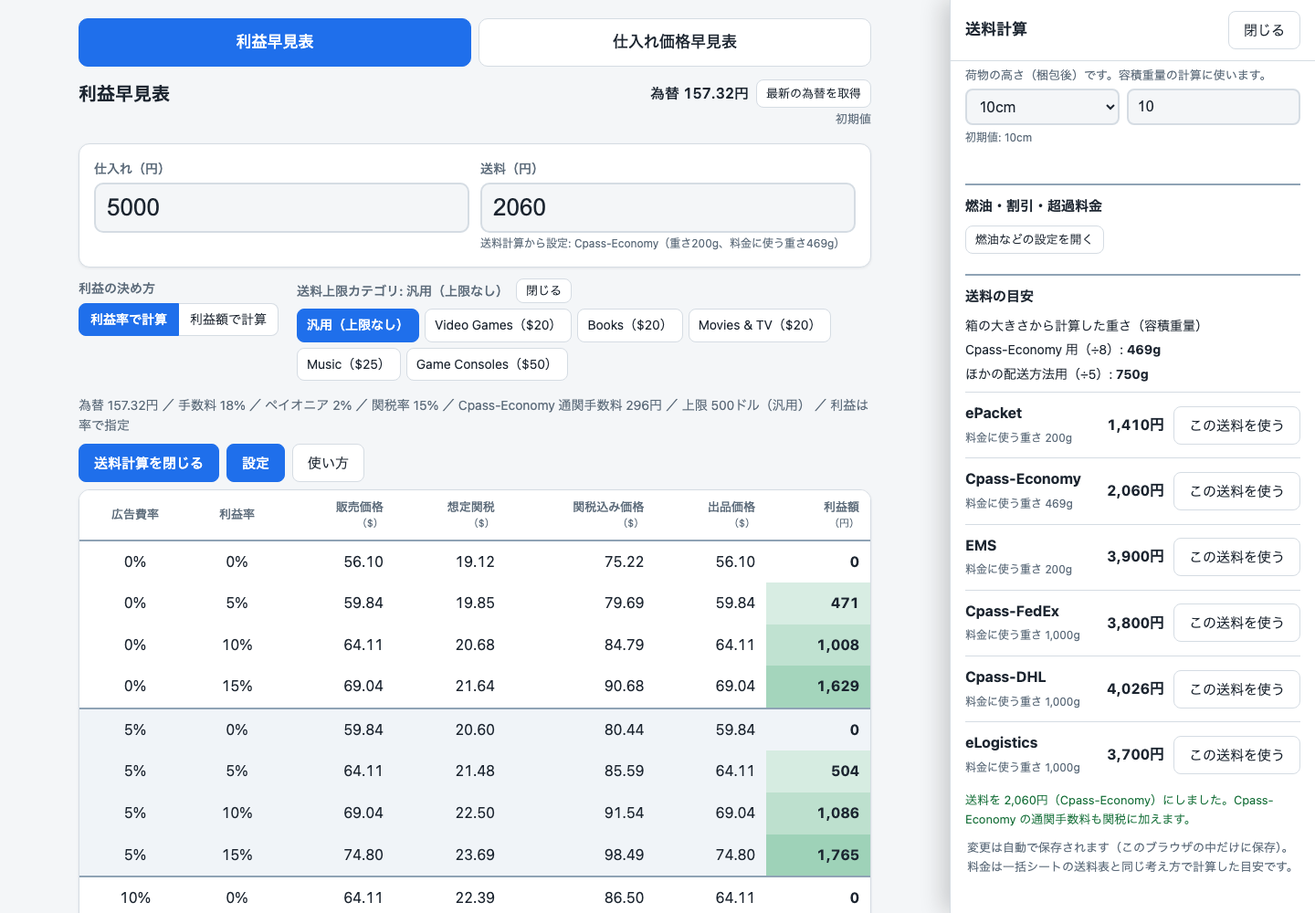
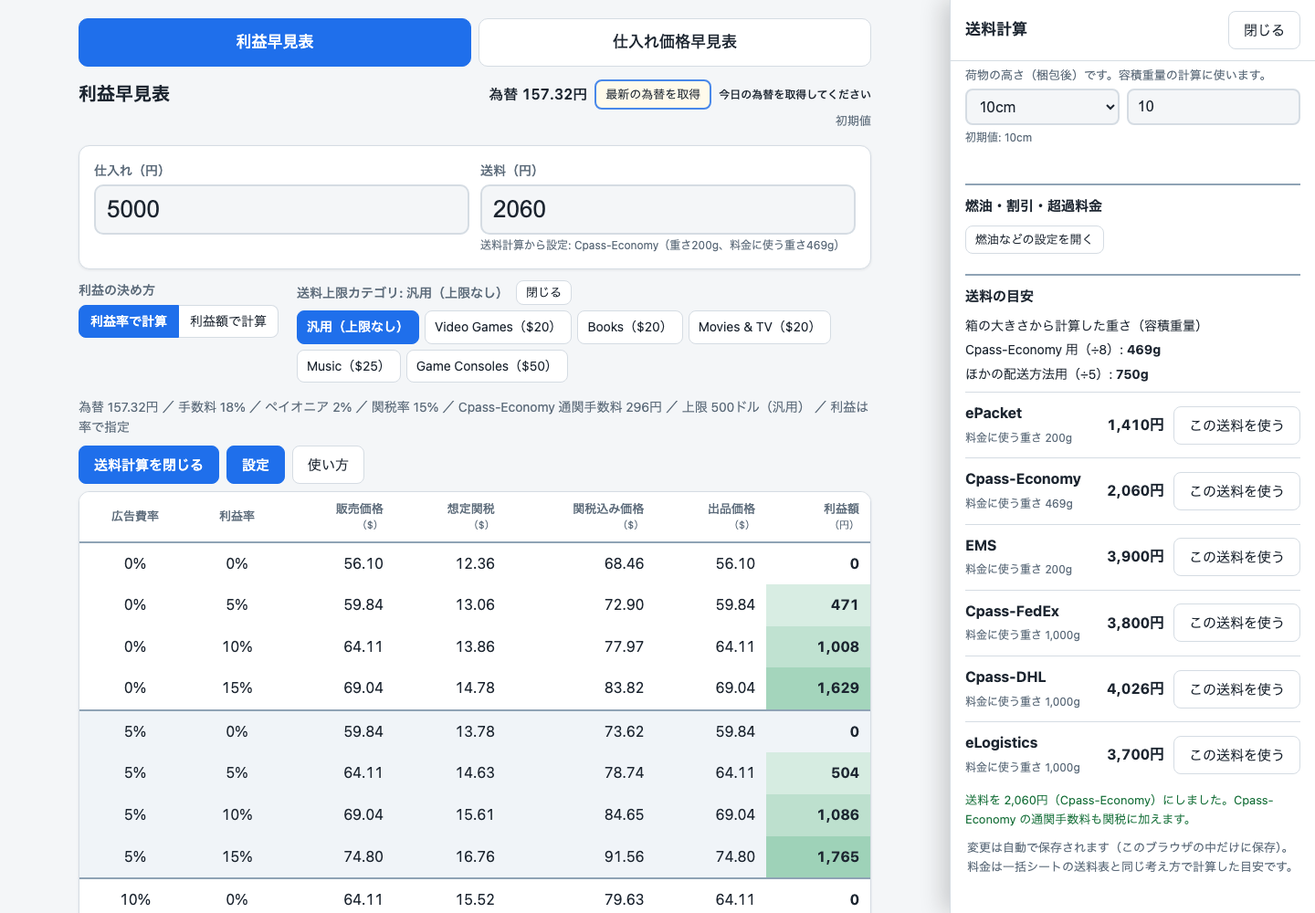
feat: 初期値を変更（上乗せ係数1・VAT0%・EU送料差額0円）、為替ボタンを未取得時に点滅、ガイドと画面写真を更新

diff --git a/guide.html b/guide.html
@@ -241,7 +241,7 @@ figcaption { font-size: 0.88rem; color: var(--muted); margin-top: 8px; line-heig
 <p>まず、画面の上にあるタブで「利益早見表」を選びます。はじめて開いたときは、こちらが選ばれています。前回選んだ表は、次に開いたときも覚えています。</p>
 
 <figure>
-  <img src="images/01-profit-table.png" alt="利益早見表の初期画面。画面の右上に「為替 157.32円」と「最新の為替を取得」ボタン、その下に「初期値」の表示が出ている。仕入れ5000円、送料1500円を入れた状態で、広告費率0%から15%、利益率0%から15%の組み合わせが16行の表で並んでいる。いちばん下に「為替レートの提供: Rates By Exchange Rate API」の行がある" width="1100" height="1500">
+  <img src="images/01-profit-table.png" alt="利益早見表の初期画面。画面の右上に「為替 157.32円」と「最新の為替を取得」ボタン（目立つ枠つき）とその横の「今日の為替を取得してください」の文字、その下に「初期値」の表示が出ている。仕入れ5000円、送料1500円を入れた状態で、広告費率0%から15%、利益率0%から15%の組み合わせが16行の表で並んでいる。いちばん下に「為替レートの提供: Rates By Exchange Rate API」の行がある" width="1100" height="1500">
   <figcaption>利益早見表の画面です。仕入れ 5000円、送料 1500円を入れた状態です。右上に為替の表示、いちばん下に為替レートの提供元の行があります。</figcaption>
 </figure>
 
@@ -263,10 +263,11 @@ figcaption { font-size: 0.88rem; color: var(--muted); margin-top: 8px; line-heig
     <tbody>
       <tr><td>初期値</td><td>ツールに入っている初期の為替を使っています。</td></tr>
       <tr><td>9/30 08:38 に取得</td><td>ボタンで取得した為替です。日時は取得した時刻で、お使いの端末の時刻で出ます（日時は例です）。</td></tr>
-      <tr><td>手入力の値</td><td>「設定」の為替の欄に、自分で数字を入れた値です。</td></tr>
+      <tr><td>手入力の値（9/30 08:38）</td><td>「設定」の為替の欄に、自分で数字を入れた値です。かっこの中は、入れた日時です（日時は例です）。</td></tr>
     </tbody>
   </table>
 </div>
+<p>今日の為替をまだ取得していない間は、「最新の為替を取得」ボタンの背景と枠がゆっくり点滅し、横に「今日の為替を取得してください」と出ます。ボタンを押して取得に成功すると、点滅は止まります。その日のうちに「設定」の為替の欄へ自分で数字を入れたときも止まります。次の日と、「初期値に戻す」を押したあとは、また点滅します。端末の設定で動きを減らしている場合は、点滅の代わりに、枠が目立つ状態のままになります。「設定」の中のボタンは点滅しません。</p>
 <p>取得中は「取得中です…」と出て、うまくいかなかったときは、同じ場所にメッセージが出ます（第9章）。為替のデータは、画面のいちばん下に書いてある提供元から取得します（第8章）。</p>
 
 <h3>表の列の見方</h3>
@@ -309,7 +310,7 @@ figcaption { font-size: 0.88rem; color: var(--muted); margin-top: 8px; line-heig
 <p>並べる値そのものは、「設定」で変えます（第7章で説明します）。</p>
 
 <figure>
-  <img src="images/02-profit-amount.png" alt="「利益額で計算」を選んだ画面。画面の右上に「為替 157.32円」と「最新の為替を取得」ボタン、その下に「初期値」の表示が出ている。利益額の列が1,000円、2,000円、3,000円、5,000円になり、利益率の列には10.7%などの計算結果が出ている" width="1100" height="1500" loading="lazy">
+  <img src="images/02-profit-amount.png" alt="「利益額で計算」を選んだ画面。画面の右上に「為替 157.32円」と「最新の為替を取得」ボタン（目立つ枠つき）とその横の「今日の為替を取得してください」の文字、その下に「初期値」の表示が出ている。利益額の列が1,000円、2,000円、3,000円、5,000円になり、利益率の列には10.7%などの計算結果が出ている" width="1100" height="1500" loading="lazy">
   <figcaption>「利益額で計算」を選んだ画面です。利益額が 1,000円・2,000円・3,000円・5,000円の行になり、利益率の列に率が出ています。</figcaption>
 </figure>
 
@@ -342,14 +343,14 @@ figcaption { font-size: 0.88rem; color: var(--muted); margin-top: 8px; line-heig
 </div>
 <p>下の写真で確認します。条件は、Video Games（$20）、仕入れ 20000円、送料 1500円です。広告費率10%、利益率10%の行を見てください。</p>
 <ul>
-  <li>販売価格は 227.78ドル、想定関税は 56.64ドル、関税込み価格は 284.42ドルです。</li>
-  <li>想定関税（56.64ドル）は上限（20ドル）を超えているので、請求する関税は 20.00ドルまでになります。</li>
-  <li>出品価格は 264.42ドルです。264.42 ＋ 20.00 ＝ 284.42 で、関税込み価格と合います。</li>
-  <li>出品価格（264.42ドル）は、販売価格（227.78ドル）と違う金額です。</li>
+  <li>販売価格は 227.78ドル、想定関税は 48.45ドル、関税込み価格は 276.23ドルです。</li>
+  <li>想定関税（48.45ドル）は上限（20ドル）を超えているので、請求する関税は 20.00ドルまでになります。</li>
+  <li>出品価格は 256.23ドルです。256.23 ＋ 20.00 ＝ 276.23 で、関税込み価格と合います。</li>
+  <li>出品価格（256.23ドル）は、販売価格（227.78ドル）と違う金額です。</li>
 </ul>
 
 <figure>
-  <img src="images/03-category-adjusted.png" alt="Video Games（$20）を選び、仕入れ20000円、送料1500円にした画面。画面の右上に「為替 157.32円」と「最新の為替を取得」ボタン、その下に「初期値」の表示が出ている。想定関税の下に赤い「関税の請求は $20.00 まで」、出品価格の下に赤い「調整あり」が出ている。広告費率10%、利益率10%の行は、販売価格227.78、想定関税56.64、関税込み価格284.42、出品価格264.42" width="1100" height="1500" loading="lazy">
+  <img src="images/03-category-adjusted.png" alt="Video Games（$20）を選び、仕入れ20000円、送料1500円にした画面。画面の右上に「為替 157.32円」と「最新の為替を取得」ボタン（目立つ枠つき）とその横の「今日の為替を取得してください」の文字、その下に「初期値」の表示が出ている。想定関税の下に赤い「関税の請求は $20.00 まで」、出品価格の下に赤い「調整あり」が出ている。広告費率10%、利益率10%の行は、販売価格227.78、想定関税48.45、関税込み価格276.23、出品価格256.23" width="1100" height="1500" loading="lazy">
   <figcaption>Video Games（$20）を選び、仕入れを 20000円にした例です。赤い表示の行が「調整あり」です。利益率0%の行の利益額が 1 や -1 になっているのは、丸めによるものです。</figcaption>
 </figure>
 
@@ -368,8 +369,8 @@ figcaption { font-size: 0.88rem; color: var(--muted); margin-top: 8px; line-heig
 <p>カテゴリの欄は、右上の「閉じる」ボタンで小さくできます。閉じると、ボタンが「開く」に変わります。閉じている間も、選んだカテゴリはそのまま計算に使われます。</p>
 
 <figure>
-  <img src="images/11-category-closed.png" alt="送料上限カテゴリの欄を閉じた画面。画面の右上に「為替 157.32円」と「最新の為替を取得」ボタン、その下に「初期値」の表示が出ている。「送料上限カテゴリ: Video Games（$20）」の右に「開く」ボタンがあり、6つのカテゴリボタンは隠れている" width="1100" height="1500" loading="lazy">
-  <figcaption>カテゴリの欄を閉じた状態です（仕入れ 5000円、カテゴリは Video Games）。「開く」を押すと、6つのボタンがまた出ます。</figcaption>
+  <img src="images/11-category-closed.png" alt="送料上限カテゴリの欄を閉じた画面。画面の右上に「為替 157.32円」と「最新の為替を取得」ボタン（目立つ枠つき）とその横の「今日の為替を取得してください」の文字、その下に「初期値」の表示が出ている。「送料上限カテゴリ: Video Games（$20）」の右に「開く」ボタンがあり、6つのカテゴリボタンは隠れている。想定関税は最大でも18.89で、赤い表示の行はない" width="1100" height="1500" loading="lazy">
+  <figcaption>カテゴリの欄を閉じた状態です（仕入れ 5000円、カテゴリは Video Games）。この条件では、想定関税がどの行も 20ドルに届かず（最大 18.89ドル）、赤い表示の行はありません。「開く」を押すと、6つのボタンがまた出ます。</figcaption>
 </figure>
 
 <h2 id="s5">5. 送料計算の使い方</h2>
@@ -377,7 +378,7 @@ figcaption { font-size: 0.88rem; color: var(--muted); margin-top: 8px; line-heig
 <p>パネルは、パネル内の「閉じる」ボタン、または「送料計算を閉じる」ボタンで閉じます。キーボードのEscキーでも閉じられます。「設定」のパネルも同じです。</p>
 
 <figure>
-  <img src="images/04-shipping-calc.png" alt="送料計算のパネルを開いた画面。左側の主画面の右上には「為替 157.32円」と「最新の為替を取得」ボタンがある。パネルには重さ200g、長さ25cm、幅15cm、高さ10cmが入っている。「燃油・割引・超過料金」の見出しの下に「燃油などの設定を開く」ボタンがあり、その下の「送料の目安」に、容積重量としてCpass-Economy用469g、ほかの配送方法用750gが出ている。一覧の先頭にePacketが見える" width="1440" height="1000" loading="lazy">
+  <img src="images/04-shipping-calc.png" alt="送料計算のパネルを開いた画面。左側の主画面の右上には「為替 157.32円」と「最新の為替を取得」ボタン、「今日の為替を取得してください」の文字がある。パネルには重さ200g、長さ25cm、幅15cm、高さ10cmが入っている。「燃油・割引・超過料金」の見出しの下に「燃油などの設定を開く」ボタンがあり、その下の「送料の目安」に、容積重量としてCpass-Economy用469g、ほかの配送方法用750gが出ている。一覧の先頭にePacketが見える" width="1440" height="1000" loading="lazy">
   <figcaption>送料計算のパネルです。初期値は 重さ200g、長さ25cm、幅15cm、高さ10cm です。</figcaption>
 </figure>
 
@@ -407,7 +408,7 @@ figcaption { font-size: 0.88rem; color: var(--muted); margin-top: 8px; line-heig
 <p>使いたい配送方法の横の「この送料を使う」を押すと、その金額が「送料（円）」に入ります。入力欄の下には、どの方法・どの重さで決めたかが小さく出ます。</p>
 
 <figure>
-  <img src="images/05-shipping-applied.png" alt="Cpass-Economyの「この送料を使う」を押したあとの画面。左側の主画面の右上に為替の表示がある。送料欄が2060になり、その下に「送料計算から設定: Cpass-Economy（重さ200g、料金に使う重さ469g）」と出て、パネルに確認メッセージが緑色で出ている。一覧には、Cpass-FedEx、Cpass-DHL、eLogisticsの料金に使う重さが1,000gと出ている" width="1440" height="1000" loading="lazy">
+  <img src="images/05-shipping-applied.png" alt="Cpass-Economyの「この送料を使う」を押したあとの画面。左側の主画面の右上に為替の表示と「今日の為替を取得してください」の文字がある。送料欄が2060になり、その下に「送料計算から設定: Cpass-Economy（重さ200g、料金に使う重さ469g）」と出て、パネルに確認メッセージが緑色で出ている。一覧には、Cpass-FedEx、Cpass-DHL、eLogisticsの料金に使う重さが1,000gと出ている" width="1440" height="1000" loading="lazy">
   <figcaption>Cpass-Economy の「この送料を使う」を押したあとです。送料が 2060 になり、入力欄の下に説明が出ています。</figcaption>
 </figure>
 
@@ -454,11 +455,11 @@ figcaption { font-size: 0.88rem; color: var(--muted); margin-top: 8px; line-heig
 </ol>
 
 <figure>
-  <img src="images/06-purchase-table.png" alt="仕入れ価格早見表の画面。画面の右上に「為替 157.32円」と「最新の為替を取得」ボタン、その下に「初期値」の表示が出ている。「関税を含まない販売価格」を選び、販売価格100ドル、送料1500円を入れた状態。仕入れ価格の列に、11,085、10,298、9,512などが並んでいる" width="1100" height="1500" loading="lazy">
+  <img src="images/06-purchase-table.png" alt="仕入れ価格早見表の画面。画面の右上に「為替 157.32円」と「最新の為替を取得」ボタン（目立つ枠つき）とその横の「今日の為替を取得してください」の文字、その下に「初期値」の表示が出ている。「関税を含まない販売価格」を選び、販売価格100ドル、送料1500円を入れた状態。仕入れ価格の列に、11,085、10,298、9,512などが並んでいる" width="1100" height="1500" loading="lazy">
   <figcaption>「関税を含まない販売価格」に 100ドルを入れた例です。広告費率10%、利益率0%の行は 9,512円です。</figcaption>
 </figure>
 <figure>
-  <img src="images/07-purchase-table-incl.png" alt="画面の右上に「為替 157.32円」と「最新の為替を取得」ボタン、その下に「初期値」の表示が出ている。「関税込み価格」を選び、関税込み価格120ドル、送料1500円を入れた画面。仕入れ価格の列に10,477、9,728などが並び、販売価格は95.17ドルなどに逆算されている" width="1100" height="1500" loading="lazy">
+  <img src="images/07-purchase-table-incl.png" alt="画面の右上に「為替 157.32円」と「最新の為替を取得」ボタン（目立つ枠つき）とその横の「今日の為替を取得してください」の文字、その下に「初期値」の表示が出ている。「関税込み価格」を選び、関税込み価格120ドル、送料1500円を入れた画面。仕入れ価格の列に11,224、10,429などが並び、販売価格は101.11ドルなどに逆算されている" width="1100" height="1500" loading="lazy">
   <figcaption>「関税込み価格」に 120ドルを入れた例です。関税込み価格から、販売価格を逆算しています。</figcaption>
 </figure>
 
@@ -484,7 +485,7 @@ figcaption { font-size: 0.88rem; color: var(--muted); margin-top: 8px; line-heig
 <p>「利益率（%）」と「利益額（円）」のうち、いま表に使っている方には「いま使用中」の印が付きます。どちらで計算するかは、設定ではなく、画面の上のボタンで切り替えます。</p>
 
 <figure>
-  <img src="images/08-settings-top.png" alt="設定パネルの上の部分。左側の主画面の右上に為替の表示がある。広告費率と利益率の4つの枠に、それぞれ一覧と数字の欄があり、利益率の横に「いま使用中」の印が出ている" width="1440" height="1000" loading="lazy">
+  <img src="images/08-settings-top.png" alt="設定パネルの上の部分。左側の主画面の右上に為替の表示と「今日の為替を取得してください」の文字がある。広告費率と利益率の4つの枠に、それぞれ一覧と数字の欄があり、利益率の横に「いま使用中」の印が出ている" width="1440" height="1000" loading="lazy">
   <figcaption>設定パネルの上の部分です。広告費率・利益率・利益額の枠が並びます。</figcaption>
 </figure>
 
@@ -494,11 +495,11 @@ figcaption { font-size: 0.88rem; color: var(--muted); margin-top: 8px; line-heig
   <li>手数料率は、販売サイトに支払う手数料の割合です。</li>
   <li>ペイオニア手数料率は、海外から代金を受け取る際の受取サービスの手数料の割合です。</li>
   <li>為替は、「最新の為替を取得」ボタンを押すと、最新の値を取得して入れます。同じボタンは、主画面の右上にもあります。どちらを押しても同じ動きです。取得できなかったときは、メッセージが出て、いまの値のままになります（第9章）。</li>
-  <li>為替の欄の下には、状態（「初期値」「9/30 08:38 に取得」のような取得した時刻、「手入力の値」）が出ます。右上の表示と同じ内容です。</li>
+  <li>為替の欄の下には、状態（「初期値」「9/30 08:38 に取得」のような取得した時刻、「手入力の値（9/30 08:38）」）が出ます。右上の表示と同じ内容です。</li>
 </ul>
 
 <figure>
-  <img src="images/09-settings-rates.png" alt="設定パネルの中ほど。為替の欄と「最新の為替を取得」ボタン、その下の「初期値」の表示、「為替レートの提供: Rates By Exchange Rate API」の行、手数料率、ペイオニア手数料率、関税率、上乗せ係数、関税処理手数料率の欄が並んでいる" width="1440" height="1000" loading="lazy">
+  <img src="images/09-settings-rates.png" alt="設定パネルの中ほど。為替の欄と「最新の為替を取得」ボタン、その下の「初期値」の表示、「為替レートの提供: Rates By Exchange Rate API」の行、手数料率、ペイオニア手数料率、関税率、上乗せ係数（初期値の1）、関税処理手数料率の欄が並んでいる" width="1440" height="1000" loading="lazy">
   <figcaption>設定パネルの中ほどです。為替の欄の下に「最新の為替を取得」ボタンと、状態の表示（この写真では「初期値」）、為替レートの提供元の行があります。</figcaption>
 </figure>
 
@@ -509,10 +510,10 @@ figcaption { font-size: 0.88rem; color: var(--muted); margin-top: 8px; line-heig
     <thead><tr><th>項目</th><th>意味</th><th>ツールの初期値</th></tr></thead>
     <tbody>
       <tr><td>関税率（%）</td><td>輸入先の国で商品にかかる関税（輸入時の税金）の割合です。</td><td>15%</td></tr>
-      <tr><td>上乗せ係数（関税の安全係数）</td><td>関税を少し多めに見積もるための掛け率です（1.03 = 3%多め）。</td><td>1.03</td></tr>
+      <tr><td>上乗せ係数（関税の安全係数）</td><td>関税を少し多めに見積もるための掛け率です（1.03 = 3%多め）。</td><td>1</td></tr>
       <tr><td>関税処理手数料率（%）</td><td>関税の支払いにかかる事務手数料の割合です。</td><td>2.1%</td></tr>
-      <tr><td>VAT率（%）</td><td>欧州などでかかる付加価値税（消費税に近い税金）の割合です。</td><td>8%</td></tr>
-      <tr><td>EU送料差額（円）</td><td>円をドルに直して、想定関税に加える金額です。</td><td>1000円</td></tr>
+      <tr><td>VAT率（%）</td><td>欧州などでかかる付加価値税（消費税に近い税金）の割合です。</td><td>0%</td></tr>
+      <tr><td>EU送料差額（円）</td><td>円をドルに直して、想定関税に加える金額です。</td><td>0円</td></tr>
       <tr><td>MPF（ドル）</td><td>米国の通関でかかる手続き費用（ドル）です。</td><td>0ドル</td></tr>
       <tr><td>Cpass-Economy で送る</td><td>Cpass-Economy（配送サービスの1つ）で送るときにチェックします。下の通関手数料が想定関税に加わります。</td><td>使わない</td></tr>
       <tr><td>通関手数料（円）</td><td>Cpass-Economy 利用時にかかる通関の手数料です。「Cpass-Economy で送る」がオフの間は、灰色になって変えられません。</td><td>296円</td></tr>
@@ -540,7 +541,7 @@ figcaption { font-size: 0.88rem; color: var(--muted); margin-top: 8px; line-heig
 </div>
 
 <figure>
-  <img src="images/10-settings-bottom.png" alt="設定パネルの下の部分。左側の主画面の右上に為替の表示がある。Cpass-Economyの通関手数料、送料の上限の説明、調整のチェック、汎用のときの上限、いちばん下に「初期値に戻す」ボタンが見える" width="1440" height="1000" loading="lazy">
+  <img src="images/10-settings-bottom.png" alt="設定パネルの下の部分。左側の主画面の右上に為替の表示と「今日の為替を取得してください」の文字がある。Cpass-Economyの通関手数料、送料の上限の説明、調整のチェック、汎用のときの上限、いちばん下に「初期値に戻す」ボタンが見える" width="1440" height="1000" loading="lazy">
   <figcaption>設定パネルの下の部分です。いちばん下に「初期値に戻す」ボタンがあります。</figcaption>
 </figure>
 

diff --git a/test-calc.js b/test-calc.js
@@ -16,7 +16,7 @@ var mr = html.match(/\/\/ REV-START([\s\S]*?)\/\/ REV-END/);
 if (!mr) { console.log('FAIL: REV block not found'); process.exit(1); }
 var mfx = html.match(/\/\/ FX-START([\s\S]*?)\/\/ FX-END/);
 if (!mfx) { console.log('FAIL: FX block not found'); process.exit(1); }
-var api = new Function(m[1] + mb[1] + mc[1] + ms[1] + mf[1] + mr[1] + mfx[1] + '; return { calcRow: calcRow, calcRowAmount: calcRowAmount, parseNum: parseNum, evalGroup: evalGroup, effectiveThreshold: effectiveThreshold, adjustExampleText: adjustExampleText, CAP_CATEGORIES: CAP_CATEGORIES, chargedTariffUSD: chargedTariffUSD, formatYen: formatYen, formatUsd: formatUsd, MAX_INPUT: MAX_INPUT, shipCost: shipCost, shipBandLookup: shipBandLookup, shipVolWeight: shipVolWeight, shipEpacket: shipEpacket, SHIP_BANDS: SHIP_BANDS, SHIP_METHODS: SHIP_METHODS, SHIP_LIMITS: SHIP_LIMITS, validateShipInputs: validateShipInputs, validateFuelSection: validateFuelSection, shipAvailability: shipAvailability, loadStored: loadStored, pickMatch: pickMatch, SHDEFS: SHDEFS, SHIP_WEIGHT_MAX: SHIP_WEIGHT_MAX, calcRev: calcRev, formatPercent: formatPercent, legendVisible: legendVisible, resetScope: resetScope, tariffInputs: tariffInputs, tariffFor: tariffFor, formatFxTime: formatFxTime, fxStatusText: fxStatusText, validateRevInputs: validateRevInputs, revSummaryText: revSummaryText };')();
+var api = new Function(m[1] + mb[1] + mc[1] + ms[1] + mf[1] + mr[1] + mfx[1] + '; return { calcRow: calcRow, calcRowAmount: calcRowAmount, parseNum: parseNum, evalGroup: evalGroup, effectiveThreshold: effectiveThreshold, adjustExampleText: adjustExampleText, CAP_CATEGORIES: CAP_CATEGORIES, chargedTariffUSD: chargedTariffUSD, formatYen: formatYen, formatUsd: formatUsd, MAX_INPUT: MAX_INPUT, shipCost: shipCost, shipBandLookup: shipBandLookup, shipVolWeight: shipVolWeight, shipEpacket: shipEpacket, SHIP_BANDS: SHIP_BANDS, SHIP_METHODS: SHIP_METHODS, SHIP_LIMITS: SHIP_LIMITS, validateShipInputs: validateShipInputs, validateFuelSection: validateFuelSection, shipAvailability: shipAvailability, loadStored: loadStored, pickMatch: pickMatch, SHDEFS: SHDEFS, SHIP_WEIGHT_MAX: SHIP_WEIGHT_MAX, calcRev: calcRev, formatPercent: formatPercent, legendVisible: legendVisible, resetScope: resetScope, tariffInputs: tariffInputs, tariffFor: tariffFor, formatFxTime: formatFxTime, fxShouldBlink: fxShouldBlink, fxStatusText: fxStatusText, validateRevInputs: validateRevInputs, revSummaryText: revSummaryText };')();
 var calcRow = api.calcRow, calcRowAmount = api.calcRowAmount, parseNum = api.parseNum, evalGroup = api.evalGroup;
 var effectiveThreshold = api.effectiveThreshold;
 
@@ -202,9 +202,9 @@ var S20 = withS({ adjustThresholdUSD: 20 });
 
 // ===== 追加テスト（今回） =====
 // 14) 部分B: 調整の見える化
-// 注意: 依頼の数値（関税33.84）は、初期設定（上乗せ係数1.03・EU送料差額1000円）では再現せず、上乗せ係数1・EU送料差額0円のときに再現する（初期設定だと関税41.20）
+// 注意: 依頼の数値（関税33.84）は、旧初期値（上乗せ係数1.03・VAT率8%・EU送料差額1000円）では再現せず、上乗せ係数1・EU送料差額0円（VAT率8%のまま）のときに再現する（旧初期値だと関税41.20）。この2つのテストは設定を明示して作っているので、初期値の変更の影響を受けない
 var PB = { feeRate: 0.20, adjustThresholdUSD: 20, safetyFactor: 1, euShippingDiffYen: 0 };
-check('part B (with initial settings the tariff is 41.20, not 33.84; recorded for the report)', calcRow(withS({ feeRate: 0.20, adjustThresholdUSD: 20 }), 20000, 1500, 0, 0).tariffUSD === 41.2, '');
+check('part B (with the OLD initial values 1.03 / VAT 8% / EU 1000 yen, given explicitly, the tariff is 41.20, not 33.84; recorded for the report)', calcRow(withS({ feeRate: 0.20, adjustThresholdUSD: 20 }), 20000, 1500, 0, 0).tariffUSD === 41.2, '');
 check('part B: values at cost 20000 / ship 1500 / fee 20% / cap 20 (safety factor 1, EU diff 0)',
   (function () {
     var rb2 = calcRow(withS(PB), 20000, 1500, 0, 0);
@@ -543,7 +543,7 @@ var T0 = Date.UTC(2026, 8, 29, 18, 20);   // 日本時間 2026-09-30 03:20
 check('formatFxTime: 9/30 03:20 in Japan time', api.formatFxTime(T0, 540) === '9/30 03:20', api.formatFxTime(T0, 540));
 check('formatFxTime: no zero padding for month/day, zero padding for hour/minute', api.formatFxTime(Date.UTC(2026, 0, 4, 22, 5), 540) === '1/5 07:05' && api.formatFxTime(Date.UTC(2026, 11, 31, 14, 59), 540) === '12/31 23:59' && api.formatFxTime(T0, 0) === '9/29 18:20', '');
 check('formatFxTime: default uses the local time zone', (function () { var d = new Date(T0); return api.formatFxTime(T0) === (d.getMonth() + 1) + '/' + d.getDate() + ' ' + (d.getHours() < 10 ? '0' : '') + d.getHours() + ':' + (d.getMinutes() < 10 ? '0' : '') + d.getMinutes(); })(), api.formatFxTime(T0));
-check('fxStatusText: default / manual / fetched', api.fxStatusText('default', '') === '初期値' && api.fxStatusText('manual', String(T0)) === '手入力の値' && api.fxStatusText('fetched', String(T0), 540) === '9/30 03:20 に取得', api.fxStatusText('fetched', String(T0), 540));
+check('fxStatusText: default / manual / fetched', api.fxStatusText('default', '') === '初期値' && api.fxStatusText('manual', String(T0), 540) === '手入力の値（9/30 03:20）' && api.fxStatusText('manual', '') === '手入力の値' && api.fxStatusText('fetched', String(T0), 540) === '9/30 03:20 に取得', api.fxStatusText('fetched', String(T0), 540));
 check('fxStatusText: fetched without a usable time, and unknown source', api.fxStatusText('fetched', '') === '取得した値' && api.fxStatusText('fetched', 'abc') === '取得した値' && api.fxStatusText('fetched', '0') === '取得した値' && api.fxStatusText('fetched', 5) === '取得した値' && api.fxStatusText('x', '') === '初期値' && api.fxStatusText(undefined) === '初期値', '');
 // J3: 為替の新しい保存項目
 check('load: old data without fxAt / fxSource gives initial values', (function () { var r = ld({ exchangeRate: '150' }); return r.state.fxAt === '' && r.state.fxSource === 'default' && r.state.exchangeRate === '150'; })(), '');
@@ -559,8 +559,50 @@ check('load: empty typed strings are kept as typed (not replaced by initial valu
 check('load: wrong-typed inputs fall back to initial values', (function () { var r = ld({ inputs: { cost: 8000, ship: null }, revPrice: 120 }); return r.inputs.cost === '5000' && r.inputs.ship === '1500' && r.state.revPrice === '100'; })(), '');
 // ページの部品
 check('page: exchange-rate block on the heading row, both buttons share one fetch function', /id="fxBtnMain"/.test(html) && /id="fxStatus"/.test(html) && /id="fxRate"/.test(html) && /class="headrow"/.test(html) && (html.match(/function fetchFx/g) || []).length === 1 && /\$\('fxBtnMain'\)\.addEventListener\('click', fetchFx\)/.test(html) && /\$\('fxBtn'\)\.addEventListener\('click', fetchFx\)/.test(html) && /\['fxBtn', 'fxBtnMain'\]/.test(html), '');
-check('page: hand-edited rate is marked manual', /if \(f\.fx\) state\.fxSource = 'manual'/.test(html), '');
+check('page: hand-edited rate is marked manual', /if \(f\.fx\) \{ state\.fxSource = 'manual';/.test(html), '');
 check('page: the cancelled recall-dropdown feature left no trace', !new RegExp('履' + '歴|his' + 't', 'i').test(html) && html.indexOf('labrow') < 0, '');
+
+
+// 25) K: 初期値の変更（上乗せ係数 1、VAT率 0、EU送料差額 0）
+function pageDef(key) { var m2 = new RegExp("k: '" + key + "'[^\\n]*?def: '([^']*)'").exec(html); return m2 ? m2[1] : null; }
+check('page defaults: safety factor 1, VAT 0, EU shipping difference 0', pageDef('safetyFactor') === '1' && pageDef('vatRate') === '0' && pageDef('euShippingDiffYen') === '0', [pageDef('safetyFactor'), pageDef('vatRate'), pageDef('euShippingDiffYen')].join('/'));
+check('page defaults: the other tariff-related defaults are unchanged', pageDef('feeRate') === '18' && pageDef('payoneerRate') === '2' && pageDef('tariffRate') === '15' && pageDef('processingFeeRate') === '2.1' && pageDef('mpfUSD') === '0' && pageDef('ceCustomsFeeYen') === '296' && pageDef('exchangeRate') === '157.315109', '');
+check('page defaults: the option lists still contain the new default values', /k: 'safetyFactor'[^\n]*opts: \['1',/.test(html) && /k: 'vatRate'[^\n]*opts: \['0',/.test(html), '');
+// 新しい初期値で計算すると（期待値は、ここで手書きの式から別に出す）: 仕入れ5000・送料1500・広告0・利益0
+(function () {
+  var Sd = withS({ safetyFactor: Number(pageDef('safetyFactor')), vatRate: Number(pageDef('vatRate')) / 100, euShippingDiffYen: Number(pageDef('euShippingDiffYen')) });
+  var fx = 157.315109, sell = Math.round(6500 / (1 - 0.20) / fx * 100) / 100;
+  var tar = Math.round((sell * (0.15 / (1 - 0.18)) * 1 * 1.021 + sell * 0 * 0.021 + 0 / fx) * 100) / 100;
+  var r = calcRow(Sd, 5000, 1500, 0, 0);
+  check('calculation with the new default values (hand-written expectation ' + sell + ' / ' + tar + ')', r.ok && r.sellingPriceUSD === sell && r.tariffUSD === tar && r.priceWithTariffUSD === Math.round((sell + tar) * 100) / 100, JSON.stringify(r) + ' expected ' + sell + '/' + tar);
+})();
+// 初期値に戻す・保存データ: 新しい初期値を持つ base で
+var BASEK = Object.assign({}, BASE2, { safetyFactor: pageDef('safetyFactor'), vatRate: pageDef('vatRate'), euShippingDiffYen: pageDef('euShippingDiffYen') });
+var oldSaved = { safetyFactor: '1.03', vatRate: '8', euShippingDiffYen: '1000' };
+check('load: a user who saved the old values (1.03 / 8 / 1000) keeps them', (function () { var r = api.loadStored(oldSaved, BASEK); return r.state.safetyFactor === '1.03' && r.state.vatRate === '8' && r.state.euShippingDiffYen === '1000'; })(), '');
+check('load: nothing stored gives the new defaults (1 / 0 / 0)', (function () { var r = api.loadStored(null, BASEK), r2 = api.loadStored({ exchangeRate: '150' }, BASEK); return [r, r2].every(function (x) { return x.state.safetyFactor === '1' && x.state.vatRate === '0' && x.state.euShippingDiffYen === '0'; }); })(), '');
+check('reset scope: old saved values go back to the new defaults (1 / 0 / 0)', (function () { var r = api.resetScope(Object.assign({}, curState, oldSaved), { cost: '1', ship: '2' }, null, BASEK); return r.state.safetyFactor === '1' && r.state.vatRate === '0' && r.state.euShippingDiffYen === '0'; })(), '');
+
+
+// 26) K5: 為替ボタンの点滅
+var JST = 540, NOW = Date.UTC(2026, 8, 29, 23, 30);   // 日本時間 2026-09-30 08:30
+function jst(y, mo, d, h, mi) { return String(Date.UTC(y, mo - 1, d, h - 9, mi)); }
+var bl = api.fxShouldBlink;
+check('blink: never set (initial value) blinks', bl('default', '', NOW, JST) === true, '');
+check('blink: fetched today does not blink', bl('fetched', jst(2026, 9, 30, 3, 20), NOW, JST) === false, '');
+check('blink: fetched yesterday 23:59 blinks', bl('fetched', jst(2026, 9, 29, 23, 59), NOW, JST) === true, '');
+check('blink: manual today does not blink, manual yesterday blinks', bl('manual', jst(2026, 9, 30, 8, 0), NOW, JST) === false && bl('manual', jst(2026, 9, 29, 8, 0), NOW, JST) === true, '');
+check('blink: wrong-typed or missing time blinks', [5, null, undefined, '', 'abc', '0', '1e12', [], {}].every(function (a) { return bl('fetched', a, NOW, JST) === true && bl('manual', a, NOW, JST) === true; }), '');
+check('blink: unknown source blinks even with a time from today', bl('x', jst(2026, 9, 30, 3, 20), NOW, JST) === true && bl(undefined, jst(2026, 9, 30, 3, 20), NOW, JST) === true, '');
+check('blink: boundary at local midnight (23:59:59.999 vs 00:00:00.000)', (function () {
+  var lastMs = Date.UTC(2026, 8, 29, 14, 59, 59, 999), midnight = Date.UTC(2026, 8, 29, 15, 0, 0, 0);   // 日本時間 9/29 23:59:59.999 と 9/30 00:00:00
+  return bl('fetched', String(lastMs), lastMs, JST) === false && bl('fetched', String(lastMs), midnight, JST) === true && bl('fetched', String(midnight), midnight, JST) === false && bl('fetched', String(midnight), lastMs, JST) === true; })(), '');
+check('blink: same instant, different time zone gives a different day', bl('fetched', String(Date.UTC(2026, 8, 29, 14, 0)), Date.UTC(2026, 8, 29, 16, 0), JST) === true && bl('fetched', String(Date.UTC(2026, 8, 29, 14, 0)), Date.UTC(2026, 8, 29, 16, 0), 0) === false, '');
+check('blink: default time zone works (fetched just now does not blink)', bl('fetched', String(Date.now()), Date.now()) === false && bl('default', '', Date.now()) === true, '');
+check('load: manual source with its time is restored and shown', (function () { var r = ld({ fxSource: 'manual', fxAt: jst(2026, 9, 30, 8, 38) }); return r.state.fxSource === 'manual' && api.fxStatusText(r.state.fxSource, r.state.fxAt, JST) === '手入力の値（9/30 08:38）' && bl(r.state.fxSource, r.state.fxAt, NOW, JST) === false; })(), '');
+check('load: old manual data without a time shows no time and blinks', (function () { var r = ld({ fxSource: 'manual' }); return api.fxStatusText(r.state.fxSource, r.state.fxAt, JST) === '手入力の値' && bl(r.state.fxSource, r.state.fxAt, NOW, JST) === true; })(), '');
+check('page: blink is only on the top-right button, with hint and reduced-motion rule', /id="fxHint"/.test(html) && /toggle\('blink', blink\)/.test(html) && !/fxBtn'\)\.classList\.toggle\('blink'/.test(html) && /prefers-reduced-motion: no-preference\) \{\s*\.fxbox button\.blink \{ animation: fxpulse 1\.2s/.test(html) && /prefers-reduced-motion: reduce\) \{\s*\.fxbox button\.blink \{ animation: none/.test(html) && html.indexOf('今日の為替を取得してください') >= 0, '');
+check('page: manual entry records the time like a fetch', /if \(f\.fx\) \{ state\.fxSource = 'manual'; state\.fxAt = String\(Date\.now\(\)\); \}/.test(html), '');
 
 console.log('\n' + pass + ' passed, ' + fail + ' failed (total ' + (pass + fail) + ')');
 process.exit(fail ? 1 : 0);

diff --git a/index.html b/index.html
@@ -18,6 +18,7 @@
   --group-line: #8fa3b5;
   --err: #b42318;
   --alert: #b42318;
+  --blink-bg: #ffe9a8;
   --ok: #17703a;
   --profit-rgb: 30, 150, 90;
   --loss: #b42318;
@@ -36,6 +37,7 @@
     --group-line: #6b7f92;
     --err: #ff8a80;
     --alert: #ff8a80;
+    --blink-bg: #5a4a10;
     --ok: #6fd69a;
     --profit-rgb: 60, 190, 120;
     --loss: #ff8a80;
@@ -58,6 +60,15 @@ h1 { font-size: 20px; margin: 0; }
 .fxbox .fxline { display: flex; flex-wrap: wrap; justify-content: flex-end; align-items: center; gap: 4px 8px; }
 .fxbox .fxrate { font-weight: 600; font-variant-numeric: tabular-nums; }
 .fxbox button { padding: 4px 10px; font-size: 13px; }
+.fxbox .fxhint { font-size: 12px; font-weight: 600; color: var(--text); }
+.fxbox button.blink { border: 2px solid var(--accent); color: var(--text); }
+@keyframes fxpulse { 0%, 100% { background-color: var(--surface); border-color: var(--accent); } 50% { background-color: var(--blink-bg); border-color: var(--border); } }
+@media (prefers-reduced-motion: no-preference) {
+  .fxbox button.blink { animation: fxpulse 1.2s ease-in-out infinite; }
+}
+@media (prefers-reduced-motion: reduce) {
+  .fxbox button.blink { animation: none; background-color: var(--blink-bg); border: 3px solid var(--accent); }
+}
 .fxbox .fxstat { margin: 2px 0 0; min-height: 1.2em; color: var(--muted); }
 .fxbox .fxstat.err { color: var(--err); }
 .fxbox .fxstat.ok { color: var(--ok); }
@@ -222,7 +233,7 @@ body.in-extension.settings-open { padding-right: 0; }
   <div class="headrow">
     <h1 id="h1">利益早見表</h1>
     <div class="fxbox" id="fxBox">
-      <div class="fxline"><span class="fxrate" id="fxRate"></span><button type="button" id="fxBtnMain">最新の為替を取得</button></div>
+      <div class="fxline"><span class="fxrate" id="fxRate"></span><button type="button" id="fxBtnMain">最新の為替を取得</button><span class="fxhint hidden" id="fxHint">今日の為替を取得してください</span></div>
       <div class="inline fxstat" id="fxStatus" role="status"></div>
     </div>
   </div>
@@ -773,13 +784,21 @@ function formatFxTime(ms, offsetMin) {
 }
 // source: 'default'（初期値）/ 'fetched'（取得）/ 'manual'（手入力）。at: 取得時刻（ミリ秒の文字列）
 function fxStatusText(source, at, offsetMin) {
-  if (source === 'manual') return '手入力の値';
-  if (source === 'fetched') {
-    var n = Number(at);
-    if (typeof at === 'string' && /^\d{1,15}$/.test(at) && n > 0) return formatFxTime(n, offsetMin) + ' に取得';
-    return '取得した値';
-  }
+  var ok = typeof at === 'string' && /^\d{1,15}$/.test(at) && Number(at) > 0;
+  if (source === 'manual') return ok ? '手入力の値（' + formatFxTime(Number(at), offsetMin) + '）' : '手入力の値';
+  if (source === 'fetched') return ok ? formatFxTime(Number(at), offsetMin) + ' に取得' : '取得した値';
   return '初期値';
+}
+// 為替ボタンを点滅させるか。今日（端末の日付）に、取得または手入力で設定した為替でなければ true
+// now: いまの時刻（ミリ秒）。offsetMin: 時差（分）。省略すると端末の時間
+function fxShouldBlink(source, at, now, offsetMin) {
+  if (source !== 'fetched' && source !== 'manual') return true;
+  if (typeof at !== 'string' || !/^\d{1,15}$/.test(at) || !(Number(at) > 0)) return true;
+  function day(ms) {
+    var off = (offsetMin === undefined) ? -new Date(ms).getTimezoneOffset() : offsetMin;
+    return Math.floor((ms + off * 60000) / 86400000);
+  }
+  return day(Number(at)) !== day(now);
 }
 // FX-END
 
@@ -802,10 +821,10 @@ function fxStatusText(source, at, offsetMin) {
     { sec: 'fx', k: 'feeRate', t: '手数料率（%）', d: '販売サイトに支払う手数料の割合です。', def: '18', kind: 'pct', opts: ['13','14','15','16','17','18','19','20','21','22','23','24','25'] },
     { sec: 'fx', k: 'payoneerRate', t: 'ペイオニア手数料率（%）', d: '海外から代金を受け取る際の受取サービスの手数料の割合です。', def: '2', kind: 'pct', opts: ['0','0.5','1','1.5','2','2.5','3'] },
     { sec: 'tax', k: 'tariffRate', t: '関税率（%）', d: '輸入先の国で商品にかかる関税（輸入時の税金）の割合です。', def: '15', kind: 'pct', opts: ['0','5','10','15','20','25','30'] },
-    { sec: 'tax', k: 'safetyFactor', t: '上乗せ係数（関税の安全係数）', d: '関税を少し多めに見積もるための掛け率です（1.03 = 3%多め）。', def: '1.03', kind: 'num', unit: '', opts: ['1','1.03','1.05','1.1'] },
+    { sec: 'tax', k: 'safetyFactor', t: '上乗せ係数（関税の安全係数）', d: '関税を少し多めに見積もるための掛け率です（1.03 = 3%多め）。', def: '1', kind: 'num', unit: '', opts: ['1','1.03','1.05','1.1'] },
     { sec: 'tax', k: 'processingFeeRate', t: '関税処理手数料率（%）', d: '関税の支払いにかかる事務手数料の割合です。', def: '2.1', kind: 'pct', opts: ['0','1','2','2.1','3'] },
-    { sec: 'tax', k: 'vatRate', t: 'VAT率（%）', d: '欧州などでかかる付加価値税（消費税に近い税金）の割合です。', def: '8', kind: 'pct', opts: ['0','5','8','10','15','20','25'] },
-    { sec: 'tax', k: 'euShippingDiffYen', t: 'EU送料差額（円）', d: '一括シートの『EU送料差額』と同じ項目です。円をドルに直して、想定関税に加えます。', def: '1000', kind: 'num', unit: '円' },
+    { sec: 'tax', k: 'vatRate', t: 'VAT率（%）', d: '欧州などでかかる付加価値税（消費税に近い税金）の割合です。', def: '0', kind: 'pct', opts: ['0','5','8','10','15','20','25'] },
+    { sec: 'tax', k: 'euShippingDiffYen', t: 'EU送料差額（円）', d: '一括シートの『EU送料差額』と同じ項目です。円をドルに直して、想定関税に加えます。', def: '0', kind: 'num', unit: '円' },
     { sec: 'tax', k: 'mpfUSD', t: 'MPF（ドル）', d: '米国の通関でかかる手続き費用（ドル）です。一括シートでは『Cpassでは免除中』として 0 になっています。', def: '0', kind: 'num', unit: 'ドル' },
     { sec: 'tax', k: 'useCpassEconomy', t: 'Cpass-Economy で送る', d: 'Cpass-Economy（配送サービスの1つ）で送るときにチェックします。下の通関手数料が想定関税に加わります。', def: false, kind: 'bool' },
     { sec: 'tax', k: 'ceCustomsFeeYen', t: '通関手数料（円）', d: 'Cpass-Economy 利用時にかかる通関の手数料です。', def: '296', kind: 'num', unit: '円' },
@@ -1117,7 +1136,7 @@ function fxStatusText(source, at, offsetMin) {
       var el = $('f_' + f.k);
       el.addEventListener((f.kind === 'bool' || f.kind === 'choice') ? 'change' : 'input', function () {
         state[f.k] = f.kind === 'bool' ? el.checked : el.value;
-        if (f.fx) state.fxSource = 'manual';
+        if (f.fx) { state.fxSource = 'manual'; state.fxAt = String(Date.now()); }
         if (f.k === 'useCpassEconomy') $('shMsg').textContent = '';
         save();
         refresh();
@@ -1360,6 +1379,10 @@ function fxStatusText(source, at, offsetMin) {
   function renderFxStatus() {
     var t = fxTransient ? fxTransient.text : fxStatusText(state.fxSource, state.fxAt);
     var cls = fxTransient ? fxTransient.cls : '';
+    var blink = fxShouldBlink(state.fxSource, state.fxAt, Date.now());
+    var mb = $('fxBtnMain');
+    if (mb) mb.classList.toggle('blink', blink);
+    if ($('fxHint')) $('fxHint').classList.toggle('hidden', !blink);
     [['fxMsg', 'inline'], ['fxStatus', 'inline fxstat']].forEach(function (x) {
       var el = $(x[0]); if (!el) return;
       el.className = x[1] + (cls ? ' ' + cls : ''); el.textContent = t;
@@ -1404,6 +1427,7 @@ function fxStatusText(source, at, offsetMin) {
     } catch (e) { fail('為替を取得できませんでした。'); }
   }
   $('fxBtnMain').addEventListener('click', fetchFx);
+  setInterval(renderFxStatus, 60000);   // 日付が変わったら点滅を再開する
 
   $('tabProfit').addEventListener('click', function () { state.tab = 'profit'; save(); refresh(); });
   $('tabRev').addEventListener('click', function () { state.tab = 'rev'; save(); refresh(); });
